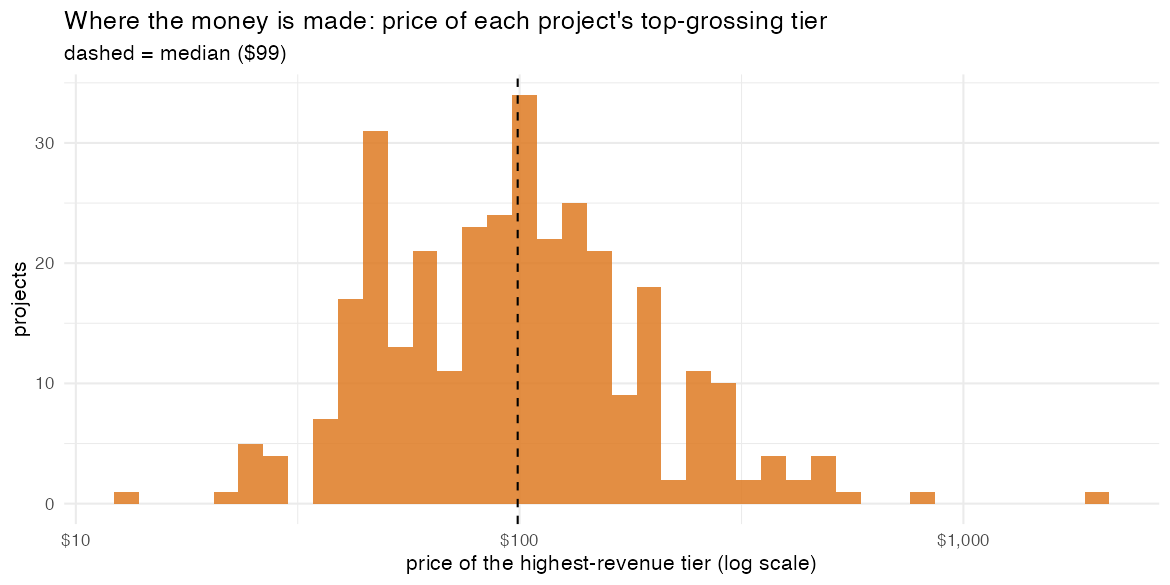
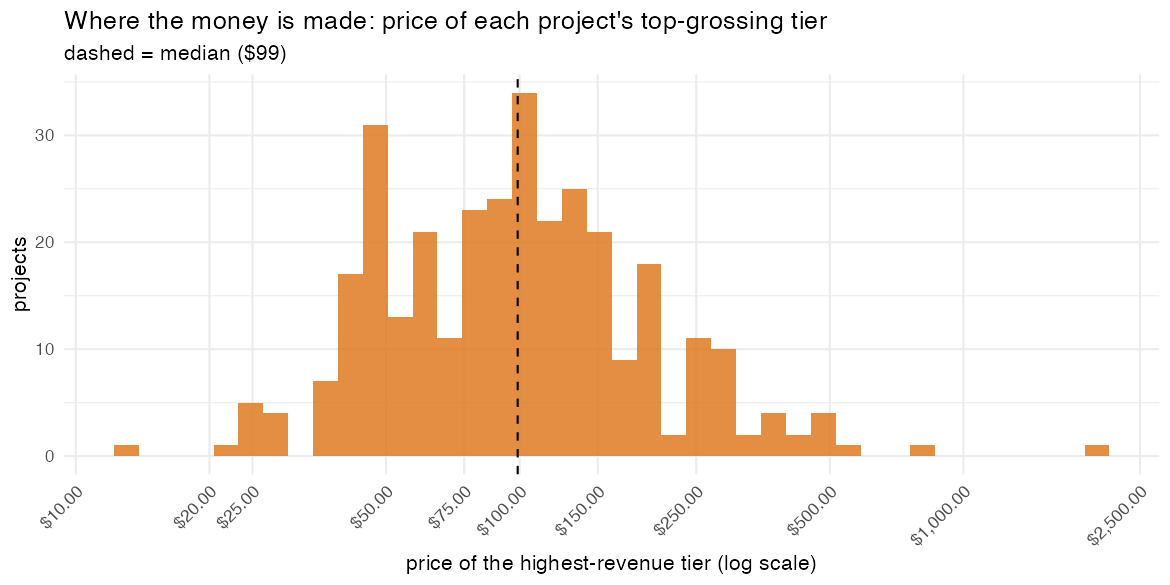
update

diff --git a/docs/index.html b/docs/index.html
@@ -22,11 +22,11 @@ id="toc-getting-the-data-and-its-survivorship-problem">Getting the data
 <li><a href="#a-growing-share-of-gaming-crowdfunding"
 id="toc-a-growing-share-of-gaming-crowdfunding">A growing share of
 gaming crowdfunding</a></li>
-<li><a href="#where-the-money-actually-is"
-id="toc-where-the-money-actually-is">Where the money actually
-is</a></li>
-<li><a href="#what-creators-ask-for" id="toc-what-creators-ask-for">What
-creators ask for</a></li>
+<li><a href="#the-dollar-distribution-among-funded-projects"
+id="toc-the-dollar-distribution-among-funded-projects">The dollar
+distribution among funded projects</a></li>
+<li><a href="#goals-and-clocks" id="toc-goals-and-clocks">Goals and
+Clocks</a></li>
 <li><a href="#the-shift-toward-dd-5e"
 id="toc-the-shift-toward-dd-5e">The shift toward D&amp;D 5e</a></li>
 <li><a href="#getting-funded-depends-more-on-who-than-what"
@@ -59,32 +59,31 @@ feel the need to do everything by hand. I checked a lot of the analysis,
 but there might still be mistakes in there.</em></p>
 <p>A while back I read <a
 href="https://patchworkpaladin.com/2026/05/18/kickstarter-whales-guest-post/">a
-great guest post on Patchwork Paladin</a> about Kickstarter “whales” —
-the analysis where Scipio202 went through ENWorld’s list of fifty-three
-tabletop RPG campaigns that raised a million dollars or more and pulled
-apart their reward tiers.<a href="#fn1" class="footnote-ref" id="fnref1"
+great guest post on Patchwork Paladin</a> about Kickstarter “whales” by
+Scipio202 on the reward tiers of fifty-three tabletop RPG campaigns that
+raised a million dollars.<a href="#fn1" class="footnote-ref" id="fnref1"
 role="doc-noteref"><sup>1</sup></a> The headline finding stuck with me:
 across those mega-projects, the high-end “whale” tiers brought in
 roughly 23% of all the money, vastly more than the cheap entry tiers
-(under 4%), and the sweet-spot whale tier clustered around a sizable but
-moderate ~$478, well below the $5,000 one might assume.</p>
+(under 4%), and the median whale tier clustered around a sizable
+~$478.</p>
 <p>It’s a careful analysis, but fifty-three projects is a small and
 selective sample — all of them extreme success stories. I kept wondering
 about the rest of the ttrpg Kickstarter projects out there. So I went
-looking for more data to learn about what makes ttrpg projects work on
+looking for more data to learn about what ttrpg projects on
 Kickstarter.</p>
 <h2 id="getting-the-data-and-its-survivorship-problem">Getting the data
 — and its survivorship problem</h2>
-<p>There’s a wonderful free resource called Web Robots that has been
-crawling Kickstarter roughly once a month since 2014 and posting the
-results. With the help of Claude, I stitched together more than a
-hundred of those monthly snapshots, deduplicated everything, and ended
-up with about <strong>45,000 tabletop-games projects</strong>. Tabletop
-is a messy category — it lumps board games, card games, miniatures,
-dice, and actual roleplaying games together — so I built a keyword
-classifier to sort RPG rulebooks and adventures (~10,800 of them) and
-RPG-specific accessories like dice and minis (~4,000) out from the
-boardgame crowd.<a href="#fn2" class="footnote-ref" id="fnref2"
+<p>There’s a nice free resource called Web Robots that has been crawling
+Kickstarter roughly once a month since 2014 and posting the results.
+With the help of Claude, I stitched together more than a hundred of
+those monthly snapshots, deduplicated everything, and ended up with
+about <strong>45,000 tabletop-games projects</strong>. Tabletop is a
+messy category. It lumps board games, card games, miniatures, dice, and
+actual roleplaying games together. To identify ttrpg projects, I built a
+keyword classifier to sort RPG rulebooks and adventures (~10,800 of
+them) and RPG-specific accessories like dice and minis (~4,000) out from
+the boardgame crowd.<a href="#fn2" class="footnote-ref" id="fnref2"
 role="doc-noteref"><sup>2</sup></a></p>
 <p><img src="images/tabletop_launches_by_month_coverage.png"
 alt="Tabletop launches by month, with coverage gaps shaded red" /></p>
@@ -95,21 +94,20 @@ all — note these are crawl months, not launch months, so the few
 projects still showing there were salvaged from much later crawls and
 badly undercount the real total. One such stretch coincides with the
 2023 OGL crisis.</em></p>
-<p>First thing I checked: the success rate. The data said tabletop RPGs
-succeed about <strong>98% of the time</strong>.</p>
-<p>That number seems wildly inaccurate, and recognizing <em>why</em>
-it’s wrong is a good example of why figuring out where your data come
-from is so important. Web Robots builds its snapshots from Kickstarter’s
-public “discover” pages — and those pages overwhelmingly surface
-projects that are live or that succeeded. Campaigns that flopped quietly
-fall out of view and never make it into the crawl. So what the crawl
-really captures is the <em>survivors</em>, with the failures missing
-almost entirely.<a href="#fn3" class="footnote-ref" id="fnref3"
+<p>First thing I checked was the success rate. The data said tabletop
+RPGs succeed about <strong>98% of the time</strong>. That number looks
+wildly inaccurate, and made me suspicious of the Web Robots data. Web
+Robots builds its snapshots from Kickstarter’s public “discover” pages —
+and those pages overwhelmingly surface projects that are live or that
+succeeded. Campaigns that flopped quietly fall out of view and never
+make it into the crawl. So what the crawl really captures is the
+<em>survivors</em>, with the failures missing almost entirely.<a
+href="#fn3" class="footnote-ref" id="fnref3"
 role="doc-noteref"><sup>3</sup></a> A success rate computed from it
 therefore describes the survivors, not the full population.</p>
 <p>This is survivorship bias, and it required a bit of additional
-thinking. It means there are two separate questions hiding inside “what
-makes a campaign succeed,” and they need different data:</p>
+thinking. It means there are two separate questions and they need
+different data:</p>
 <ol type="1">
 <li><strong>Did it get funded at all?</strong> — You cannot answer this
 from a dataset with no failures.</li>
@@ -129,6 +127,8 @@ for “how much” — is the basis of everything below.</p>
 isn’t 98%. It’s about <strong>two-thirds</strong> over 2009–2018,
 climbing to roughly <strong>86% by 2023</strong>.<a href="#fn5"
 class="footnote-ref" id="fnref5" role="doc-noteref"><sup>5</sup></a>
+Note that this is all tabletop products, including boardgames, because
+the ICPSR data do not allow me to subset to ttrpg products only.
 Tabletop has become one of the categories with the highest success
 rates, though it reached that point gradually.</p>
 <p><img src="images/icpsr_success_by_year.png"
@@ -182,7 +182,8 @@ alt="Share of dollars vs share of projects, by Games subcategory" /></p>
 funded projects (grey). Where blue beats grey — board games, video games
 — is high-value territory; where grey beats blue — playing cards,
 accessories — is high-volume but cheap.</em></p>
-<h2 id="where-the-money-actually-is">Where the money actually is</h2>
+<h2 id="the-dollar-distribution-among-funded-projects">The dollar
+distribution among funded projects</h2>
 <p>Among funded projects, the distribution of dollars is strongly
 top-heavy. The <strong>top 1% of funded RPG projects capture about 34%
 of all the dollars</strong>; the top 5% capture nearly two-thirds. For
@@ -212,7 +213,7 @@ long tail reaching toward the millions.</em></p>
 funded accessories raise at least double their goal, versus 76% for
 books. “Set a tiny goal and overfund” seems to be a common strategy,
 especially for accessories.</p>
-<h2 id="what-creators-ask-for">What creators ask for</h2>
+<h2 id="goals-and-clocks">Goals and Clocks</h2>
 <p>Two numbers a creator picks before anything else are the
 <strong>goal</strong> (how much to ask for) and the
 <strong>clock</strong> (how long to run). RPG goals cluster in the low
@@ -284,10 +285,13 @@ funding success and checked how well they did out-of-sample, not merely
 how well they fit in-sample.<a href="#fn11" class="footnote-ref"
 id="fnref11" role="doc-noteref"><sup>11</sup></a> One to keep in mind
 for this whole section: the failure-inclusive data is either
-name-identified only through 2018 or not RPG-specific, so the
-funding-side story leans on tabletop crowdfunding in the 2010s and may
-not perfectly describe the ZineQuest-era RPG market of the 2020s.<a
-href="#fn12" class="footnote-ref" id="fnref12"
+name-identified only through 2018 or not RPG-specific. Because the
+Kaggle export keeps project names, I <em>can</em> run the keyword
+classifier on it and isolate RPG projects — but only through 2018; ICPSR
+masks names, so it stays whole-tabletop. So the funding-side story leans
+on tabletop crowdfunding in the 2010s and may not perfectly describe the
+ZineQuest-era RPG market of the 2020s.<a href="#fn12"
+class="footnote-ref" id="fnref12"
 role="doc-noteref"><sup>12</sup></a></p>
 <p>I started with two models with different kinds of information. One
 knew only about the <strong>creator</strong>: how many projects they’d
@@ -579,16 +583,17 @@ role="doc-noteref"><sup>22</sup></a></p>
 <h2 id="back-to-the-whale-tiers">Back to the whale tiers</h2>
 <p>The whale post’s question — how the money splits across a campaign’s
 reward tiers — is the one I began without the data to answer, since
-tier-level prices and backer counts live only on individual campaign
-pages, not in any of the bulk datasets. So I went back and recovered
-them, reading the <em>archived</em> campaign pages from the Internet
-Archive’s Wayback Machine rather than scraping Kickstarter directly.<a
-href="#fn23" class="footnote-ref" id="fnref23"
-role="doc-noteref"><sup>23</sup></a> About half of the top-decile RPG
-books had an archived page complete enough to use — 325 books, roughly
-3,300 tiers — so this is a doubly selected sample, and approximate:
-per-tier price × backers recovers about three-quarters of each project’s
-total, the rest being over-pledges, add-ons, and shipping.</p>
+tier-level prices and backer counts are only available on individual
+campaign pages, not in any of the bulk datasets. So I went back and
+recovered them (with the help of Claude), reading the <em>archived</em>
+campaign pages from the Internet Archive’s Wayback Machine rather than
+scraping Kickstarter directly.<a href="#fn23" class="footnote-ref"
+id="fnref23" role="doc-noteref"><sup>23</sup></a> About half of the
+top-decile RPG books had an archived page complete enough to use — 325
+books, roughly 3,300 tiers — so this is a doubly selected sample, and
+approximate: per-tier price × backers recovers about three-quarters of
+each project’s total, the rest being over-pledges, add-ons, and
+shipping.</p>
 <p>The first finding matches the whale post on a much larger sample. The
 cheap tiers draw most of the backers; the premium tiers hold most of the
 money. Sorting every tier by price, entry tiers under $25 account for
@@ -601,16 +606,20 @@ alt="Backers vs. dollars by reward-tier price" /></p>
 (grey) vs. approximate share of all pledged dollars (blue). Backers
 cluster at $50–100; the dollars shift right to the $100–500 premium
 tiers.</em></p>
-<p>The RPG-book “whale,” though, sits at a far lower price than in the
-original post. There, across million-dollar megaprojects, the sweet-spot
-whale tier sat near $478. Among these top-decile RPG books, the
-<strong>top-grossing tier of the median project is about $99</strong> —
-roughly the price of a deluxe hardcover.</p>
+<p>The RPG-book “whale” sits a little lower than in the original post.
+Defined the same way — the single most-expensive tier in a campaign —
+the median top-priced tier among these books is about
+<strong>$359</strong>, versus <strong>$478</strong> across the
+million-dollar megaprojects. But the more striking pattern is that this
+ceiling tier isn’t where the money is made: the <strong>highest-grossing
+tier of the median book is only about $99</strong> — roughly the price
+of a deluxe hardcover. The expensive tier exists; few people buy it.</p>
 <p><img src="images/tier_sweetspot_hist.png"
 alt="Price of each project’s top-grossing tier" /></p>
 <p><em>The price of the single highest-revenue tier in each project,
 which clusters near $100 (median, dashed) — the deluxe-book price point,
-well below the megaproject whale tiers.</em></p>
+and far below each book’s own most-expensive tier (median
+$359).</em></p>
 <p>Nor is the money concentrated in one ceiling tier. The median book
 offers nine tiers, and its single highest-priced tier accounts for only
 about 4% of its money — the top tiers are expensive but thinly

diff --git a/docs/index.md b/docs/index.md
@@ -4,30 +4,28 @@
 
 *Note: Caveat Emptor. The analysis and write-up were generated with the help of Claude Code—since this was done on a whim, I didn’t feel the need to do everything by hand. I checked a lot of the analysis, but there might still be mistakes in there.*
 
-A while back I read [a great guest post on Patchwork Paladin](https://patchworkpaladin.com/2026/05/18/kickstarter-whales-guest-post/) about Kickstarter "whales" — the analysis where Scipio202 went through ENWorld's list of fifty-three tabletop RPG campaigns that raised a million dollars or more and pulled apart their reward tiers.[^whales] The headline finding stuck with me: across those mega-projects, the high-end "whale" tiers brought in roughly 23% of all the money, vastly more than the cheap entry tiers (under 4%), and the sweet-spot whale tier clustered around a sizable but moderate ~$478, well below the $5,000 one might assume.
+A while back I read [a great guest post on Patchwork Paladin](https://patchworkpaladin.com/2026/05/18/kickstarter-whales-guest-post/) about Kickstarter "whales" by Scipio202 on the reward tiers of fifty-three tabletop RPG campaigns that raised a million dollars.[^whales] The headline finding stuck with me: across those mega-projects, the high-end "whale" tiers brought in roughly 23% of all the money, vastly more than the cheap entry tiers (under 4%), and the median whale tier clustered around a sizable ~$478.
 
-It's a careful analysis, but fifty-three projects is a small and selective sample — all of them extreme success stories. I kept wondering about the rest of the ttrpg Kickstarter projects out there. So I went looking for more data to learn about what makes ttrpg projects work on Kickstarter. 
+It's a careful analysis, but fifty-three projects is a small and selective sample — all of them extreme success stories. I kept wondering about the rest of the ttrpg Kickstarter projects out there. So I went looking for more data to learn about what ttrpg projects on Kickstarter. 
 
 ## Getting the data — and its survivorship problem
 
-There's a wonderful free resource called Web Robots that has been crawling Kickstarter roughly once a month since 2014 and posting the results. With the help of Claude, I stitched together more than a hundred of those monthly snapshots, deduplicated everything, and ended up with about **45,000 tabletop-games projects**. Tabletop is a messy category — it lumps board games, card games, miniatures, dice, and actual roleplaying games together — so I built a keyword classifier to sort RPG rulebooks and adventures (~10,800 of them) and RPG-specific accessories like dice and minis (~4,000) out from the boardgame crowd.[^classifier]
+There's a nice free resource called Web Robots that has been crawling Kickstarter roughly once a month since 2014 and posting the results. With the help of Claude, I stitched together more than a hundred of those monthly snapshots, deduplicated everything, and ended up with about **45,000 tabletop-games projects**. Tabletop is a messy category. It lumps board games, card games, miniatures, dice, and actual roleplaying games together. To identify ttrpg projects, I built a keyword classifier to sort RPG rulebooks and adventures (~10,800 of them) and RPG-specific accessories like dice and minis (~4,000) out from the boardgame crowd.[^classifier]
 
 ![Tabletop launches by month, with coverage gaps shaded red](images/tabletop_launches_by_month_coverage.png)
 
 *All tabletop launches by month (board games included, not just RPGs), from the stitched-together monthly crawls. The red bands mark months where the **crawl** captured no Games category at all — note these are crawl months, not launch months, so the few projects still showing there were salvaged from much later crawls and badly undercount the real total. One such stretch coincides with the 2023 OGL crisis.*
 
-First thing I checked: the success rate. The data said tabletop RPGs succeed about **98% of the time**.
+First thing I checked was the success rate. The data said tabletop RPGs succeed about **98% of the time**. That number looks wildly inaccurate, and made me suspicious of the Web Robots data. Web Robots builds its snapshots from Kickstarter's public "discover" pages — and those pages overwhelmingly surface projects that are live or that succeeded. Campaigns that flopped quietly fall out of view and never make it into the crawl. So what the crawl really captures is the *survivors*, with the failures missing almost entirely.[^survivorship] A success rate computed from it therefore describes the survivors, not the full population.
 
-That number seems wildly inaccurate, and recognizing *why* it's wrong is a good example of why figuring out where your data come from is so important. Web Robots builds its snapshots from Kickstarter's public "discover" pages — and those pages overwhelmingly surface projects that are live or that succeeded. Campaigns that flopped quietly fall out of view and never make it into the crawl. So what the crawl really captures is the *survivors*, with the failures missing almost entirely.[^survivorship] A success rate computed from it therefore describes the survivors, not the full population.
-
-This is survivorship bias, and it required a bit of additional thinking. It means there are two separate questions hiding inside "what makes a campaign succeed," and they need different data:
+This is survivorship bias, and it required a bit of additional thinking. It means there are two separate questions and they need different data:
 
 1. **Did it get funded at all?** — You cannot answer this from a dataset with no failures.
 2. **Given that it got funded, how much did it raise?** — This you *can* answer, because the survivors are exactly the population you care about.
 
 So I went and found data that *does* include the failures. A widely-used Kaggle export covers 2009–2018 and includes the flops; an academic dataset from ICPSR covers 2009–2023 with all 610,000 Kickstarter projects, successes and failures alike.[^triangulation] Triangulating across three independent sources — using the failure-inclusive ones for "did it fund" and the rich Web Robots crawl for "how much" — is the basis of everything below.
 
-When you bring the failures back, the real tabletop success rate isn't 98%. It's about **two-thirds** over 2009–2018, climbing to roughly **86% by 2023**.[^rate] Tabletop has become one of the categories with the highest success rates, though it reached that point gradually.
+When you bring the failures back, the real tabletop success rate isn't 98%. It's about **two-thirds** over 2009–2018, climbing to roughly **86% by 2023**.[^rate] Note that this is all tabletop products, including boardgames, because the ICPSR data do not allow me to subset to ttrpg products only. Tabletop has become one of the categories with the highest success rates, though it reached that point gradually.
 
 ![True tabletop success rate by year, two sources](images/icpsr_success_by_year.png)
 
@@ -53,7 +51,7 @@ But "tabletop" is mostly *board games* when it comes to dollars. Line up each su
 
 *Each subcategory's share of funded dollars (blue) vs its share of funded projects (grey). Where blue beats grey — board games, video games — is high-value territory; where grey beats blue — playing cards, accessories — is high-volume but cheap.*
 
-## Where the money actually is
+## The dollar distribution among funded projects
 
 Among funded projects, the distribution of dollars is strongly top-heavy. The **top 1% of funded RPG projects capture about 34% of all the dollars**; the top 5% capture nearly two-thirds. For accessories it is even more concentrated relative to their size — the top 1% pull in 38%. The whale post was studying the part of the distribution that holds most of the money.
 
@@ -69,7 +67,7 @@ The typical project is far smaller. A median *funded* RPG book raises around **$
 
 Accessories, meanwhile, are different. Their median funding goal is **about $400**, and they exceed it comfortably: 86% of funded accessories raise at least double their goal, versus 76% for books. "Set a tiny goal and overfund” seems to be a common strategy, especially for accessories.
 
-## What creators ask for
+## Goals and Clocks
 
 Two numbers a creator picks before anything else are the **goal** (how much to ask for) and the **clock** (how long to run). RPG goals cluster in the low thousands (accessories a notch lower, in the hundreds), with the telltale spikes at round numbers like $1,000 and $5,000.
 
@@ -107,7 +105,7 @@ D&D 5e is something people publish *for*: about **40% of 5e books are adventures
 
 ## Getting funded depends more on who than what
 
-Now the question the survivor data couldn't speak to. Using the failure-inclusive datasets, I asked Claude to build models to predict funding success and checked how well they did out-of-sample, not merely how well they fit in-sample.[^auc] One to keep in mind for this whole section: the failure-inclusive data is either name-identified only through 2018 or not RPG-specific, so the funding-side story leans on tabletop crowdfunding in the 2010s and may not perfectly describe the ZineQuest-era RPG market of the 2020s.[^fundingera]
+Now the question the survivor data couldn't speak to. Using the failure-inclusive datasets, I asked Claude to build models to predict funding success and checked how well they did out-of-sample, not merely how well they fit in-sample.[^auc] One to keep in mind for this whole section: the failure-inclusive data is either name-identified only through 2018 or not RPG-specific. Because the Kaggle export keeps project names, I *can* run the keyword classifier on it and isolate RPG projects — but only through 2018; ICPSR masks names, so it stays whole-tabletop. So the funding-side story leans on tabletop crowdfunding in the 2010s and may not perfectly describe the ZineQuest-era RPG market of the 2020s.[^fundingera]
 
 I started with two models with different kinds of information. One knew only about the **creator**: how many projects they'd run before, how many succeeded, how many failed. The other knew only about the **project**: its genre, its goal, its country, its title.
 
@@ -232,11 +230,11 @@ The first finding matches the whale post on a much larger sample. The cheap tier
 
 *Every reward tier sorted into price bands: share of all backers (grey) vs. approximate share of all pledged dollars (blue). Backers cluster at $50–100; the dollars shift right to the $100–500 premium tiers.*
 
-The RPG-book "whale," though, sits at a far lower price than in the original post. There, across million-dollar megaprojects, the sweet-spot whale tier sat near $478. Among these top-decile RPG books, the **top-grossing tier of the median project is about $99** — roughly the price of a deluxe hardcover.
+The RPG-book "whale" sits a little lower than in the original post. Defined the same way — the single most-expensive tier in a campaign — the median top-priced tier among these books is about **$359**, versus **$478** across the million-dollar megaprojects. But the more striking pattern is that this ceiling tier isn’t where the money is made: the **highest-grossing tier of the median book is only about $99** — roughly the price of a deluxe hardcover. The expensive tier exists; few people buy it.
 
 ![Price of each project's top-grossing tier](images/tier_sweetspot_hist.png)
 
-*The price of the single highest-revenue tier in each project, which clusters near $100 (median, dashed) — the deluxe-book price point, well below the megaproject whale tiers.*
+*The price of the single highest-revenue tier in each project, which clusters near $100 (median, dashed) — the deluxe-book price point, and far below each book’s own most-expensive tier (median $359).*
 
 Nor is the money concentrated in one ceiling tier. The median book offers nine tiers, and its single highest-priced tier accounts for only about 4% of its money — the top tiers are expensive but thinly subscribed. The dollars come from the mid-priced premium tiers, not the most expensive ones.
 